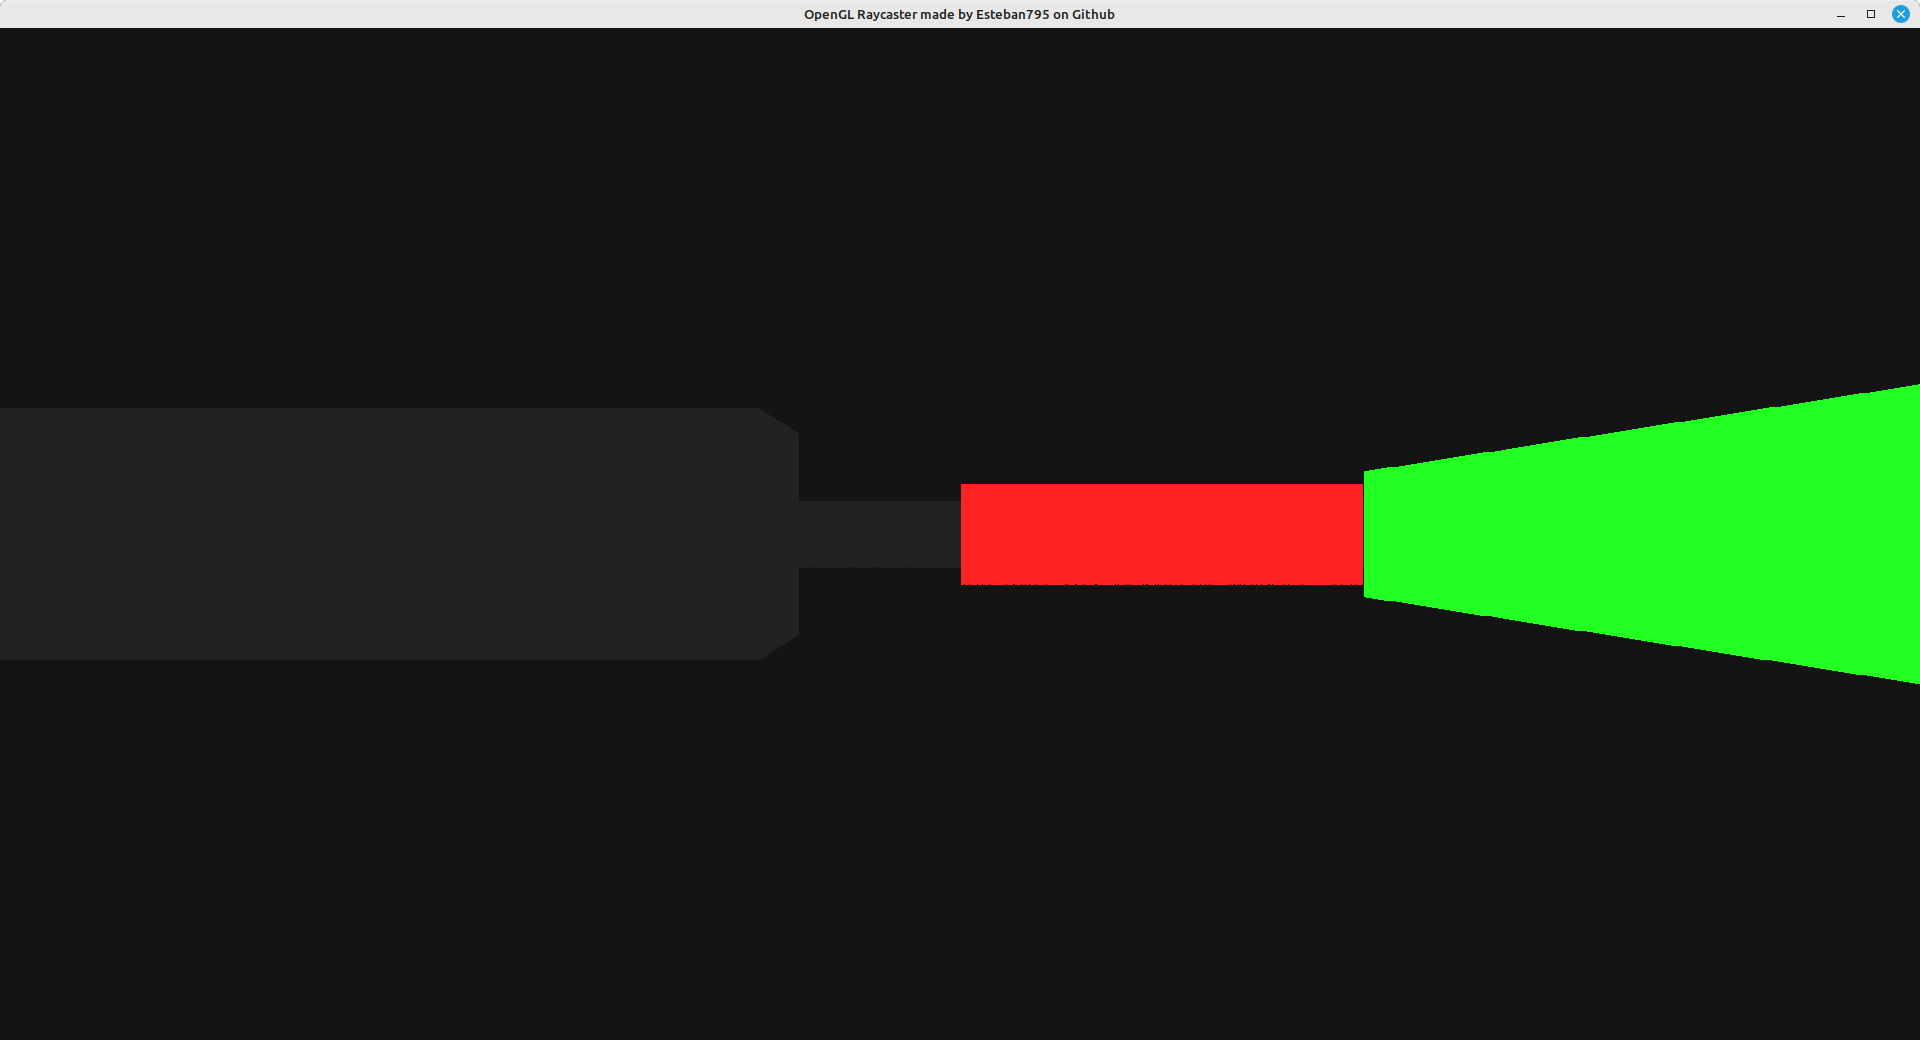
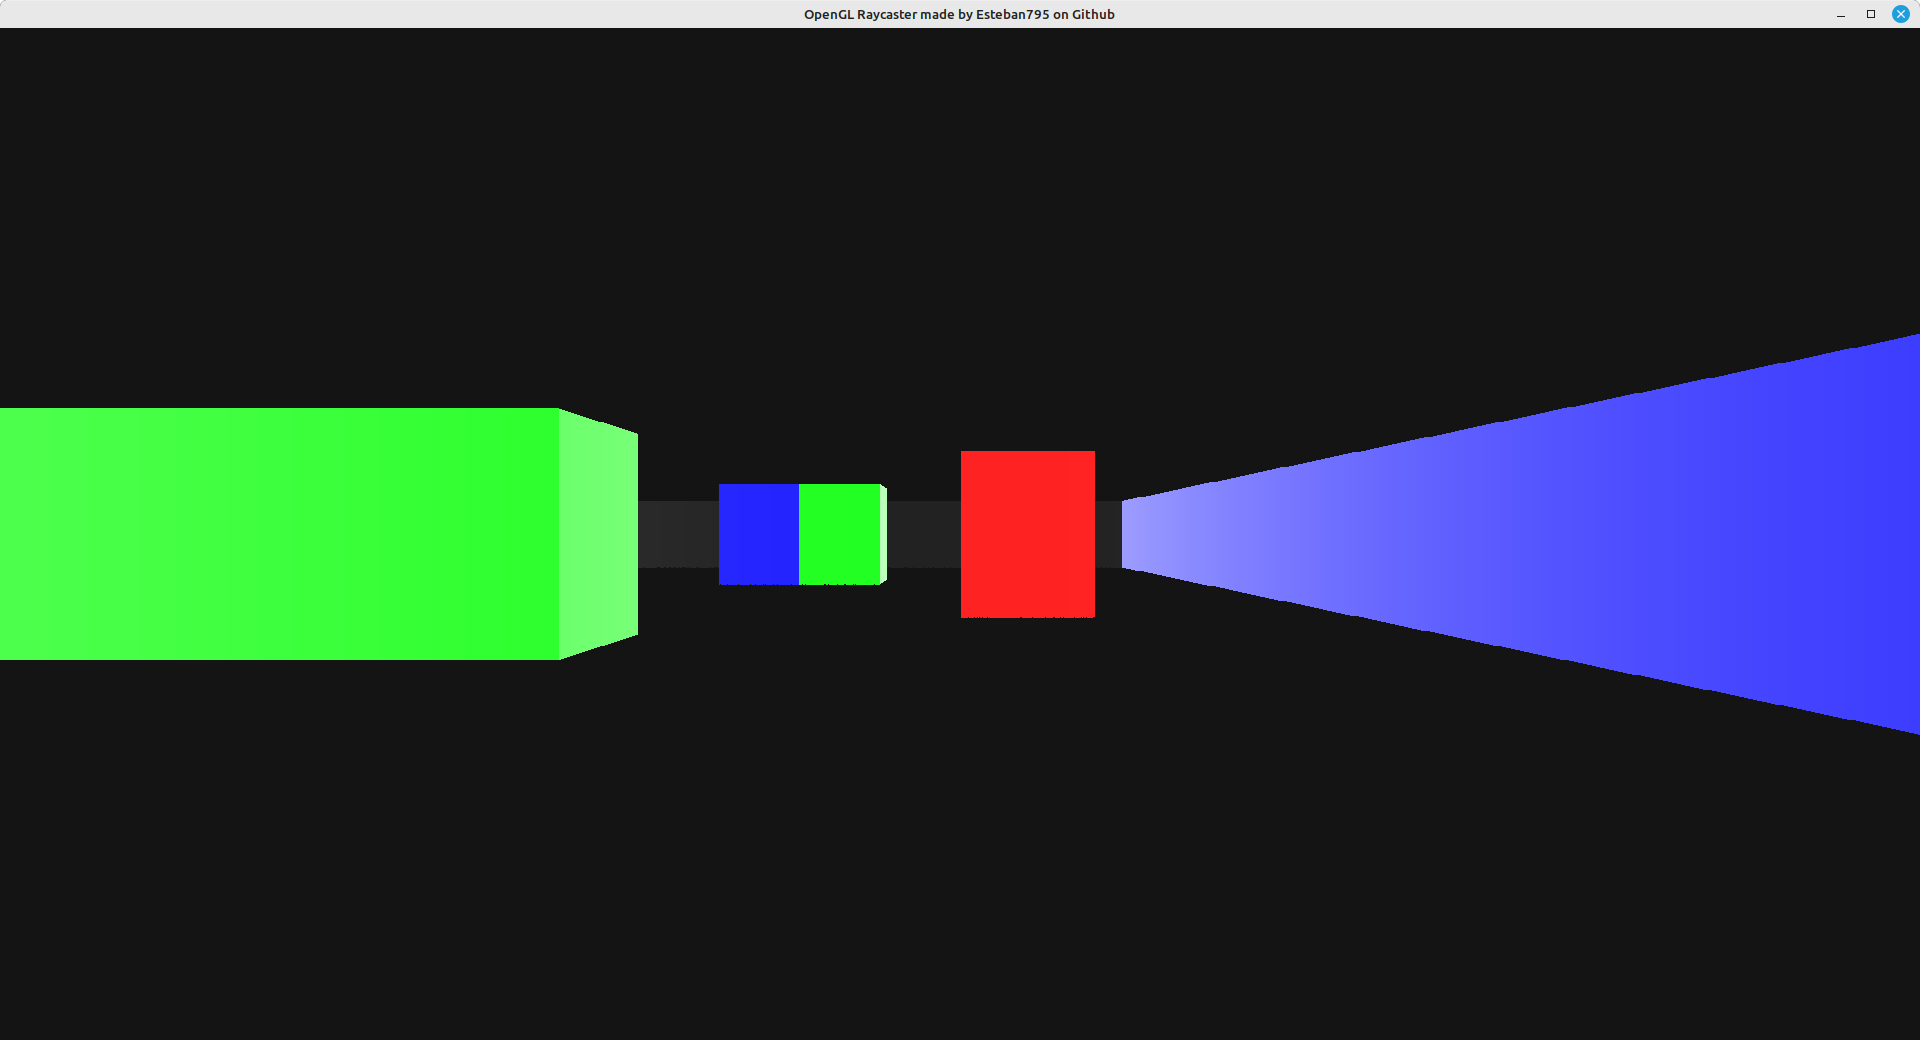
utils : minor changes in readme, new image

Changed region(s): [[0.5, 0.3077, 1.0, 0.7077], [0.0, 0.3692, 0.3438, 0.6462], [0.375, 0.4615, 0.4688, 0.5846]]

diff --git a/README.md b/README.md
@@ -70,8 +70,8 @@ It should render this :
 
 ### __What's left to do__ ?
  
-- Maybe add some kind of lighing ?
+- ~~Maybe add some kind of lighing ?~~ ✅ 
 - Textures onto walls ? Right now, it can only display a few colors, but it isn't posssible to display more than a single color per wall. It forces pretty bland designs.
 - Just found out about this [tutorial](https://lodev.org/cgtutor/raycasting.html) with a different algorithm. I might reimplement the ray casting stuff !
-- Allow users to input their own map ! (work in progress, see ```read_world``` function in src/map.c).
+- Allow users to input their own map ! (work in progress, see ```read_world``` function in src/map.c). (almost done)
 - A minimap in one of the two top corners. I need to figure out how to draw this and update our player position.
